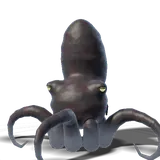
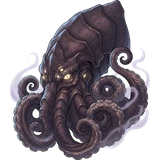
14 yaratık yeni 2B görseller (2 pozlu şerit + portre), GUC/GUCN mc-gu4 (yerel, yayınlanmadı)
Claude-Session: https://claude.ai/code/session_01Ey5QmbkWAGVHGFmAecVhN7

diff --git a/sw.js b/sw.js
@@ -1,6 +1,6 @@
 var CACHE = 'mc-v69';
 /* Güneş Ülkesi dosyaları (gu/): ilk kullanılınca indirilir, sürümler arasında saklanır */
-var GUC = 'mc-gu3';
+var GUC = 'mc-gu4';
 var FILES = ['./', './index.html', './manifest.json', './icon-192.png', './icon-512.png', './lose.mp3', './pass.mp3', './top.mp3', './win.mp3', './tur.mp3', './menu.mp3', './gizlilik.html', './aydinlatma.html', './veri-silme.html', './mc-idle.webp', './mc-happy.webp', './mc-look.webp', './mc-wait.webp', './mc-cheer.webp', './mc-sad.webp', './mc-peek.webp', './mc-blink.webp', './mc-sidel.webp', './mc-sider.webp', './mc-atlas.webp', './wel-bg.webp', './mc-k-idle.webp', './mc-k-look.webp', './mc-k-cheer.webp', './mc-k-peek.webp', './mca-idle.webp', './mca-hop.webp', './mca-cheer.webp', './mca-sad.webp', './mca-sneeze.webp', './mca-k-idle.webp', './mca-k-hop.webp', './mca-k-cheer.webp', './mca-k-attack.webp', './mca-k-block.webp'];
 
 self.addEventListener('install', function (e) {

diff --git a/index.html b/index.html
@@ -4915,7 +4915,7 @@ function rmBeat(){
 }
 function rmLost(p){return !!(p&&!p.done&&CL.user&&p.uid!==CL.user.uid&&RM.seen[p.uid]&&Date.now()-RM.seen[p.uid]>30000)}
 /* S51: oyun başlarken rakiplerin belgesi henüz gelmemiş olabilir (davetle girende). Gelene kadar bekle. */
-var GUCN='mc-gu3'; /* sw.js GUC ile aynı tutulmalı */
+var GUCN='mc-gu4'; /* sw.js GUC ile aynı tutulmalı */
 var PV=2,APPV=69;
 function appUpd(){
   if(!navigator.onLine){toast('Güncellemek için internet gerekir');return}

diff --git a/CLAUDE.md b/CLAUDE.md
@@ -31,7 +31,7 @@ Son güncelleme: 25 Kasım 2026 · Yayındaki sürüm: **69**
 ## 3. Yayın hattı
 - **Dosyalar:** `index.html` (tüm uygulama), `sw.js` (önbellek), `manifest.json`, `icon-192.png`, `icon-512.png` (S59: 3B canavardan üretildi). Ayrıca `firebase/` (kurallar) ve `.github/workflows/firestore-rules.yml`.
 - **Her sürümde:** `index.html` içinde `var APPV=N` (karşılama ekranındaki `Sürüm N` buradan gelir, S51) ve `sw.js` içindeki `var CACHE = 'mc-vN'` değerini artır. Service worker cache-first çalışır; yeni sürümde sayfa kendini yeniler (`controllerchange`/`PENDRELOAD`). Telefonda eski sürüm görünüyorsa uygulama kapatılıp açılır.
-- **gu/ önbelleği:** `sw.js` `GUC` (mc-guN) sürümler arasında silinmez; `gu/` içindeki bir dosya değişirse GUC'yi artır **ve index.html `GUCN` aynı değere** (Güncelle düğmesinin yedek temizliği sadece bunu korur; eski mc-gu* silinir). Şu an `mc-gu3`.
+- **gu/ önbelleği:** `sw.js` `GUC` (mc-guN) sürümler arasında silinmez; `gu/` içindeki bir dosya değişirse GUC'yi artır **ve index.html `GUCN` aynı değere** (Güncelle düğmesinin yedek temizliği sadece bunu korur; eski mc-gu* silinir). Şu an `mc-gu4`.
 - **GitHub Pages:** main'e push → "pages build and deployment" çalışır. Kontrol: `gh run list --limit 3`. (Canlı siteye WebFetch izinli değil.)
 - **Firestore kuralları:** `firebase/firestore.rules` değişip push edilince Actions kuralları otomatik yükler (secret `FIREBASE_SA`, servis hesabında "Firebase Rules Admin" rolü). Elle tetikleme: `gh api -X POST repos/digerpchesabim-stack/Matematikcanavari/actions/workflows/firestore-rules.yml/dispatches -f ref=main` (GraphQL engelli, `gh workflow run` çalışmaz).
 - **Sıra:** Kural değişikliği gerekiyorsa önce kurallar (geriye uyumlu/ek), sonra uygulama.
